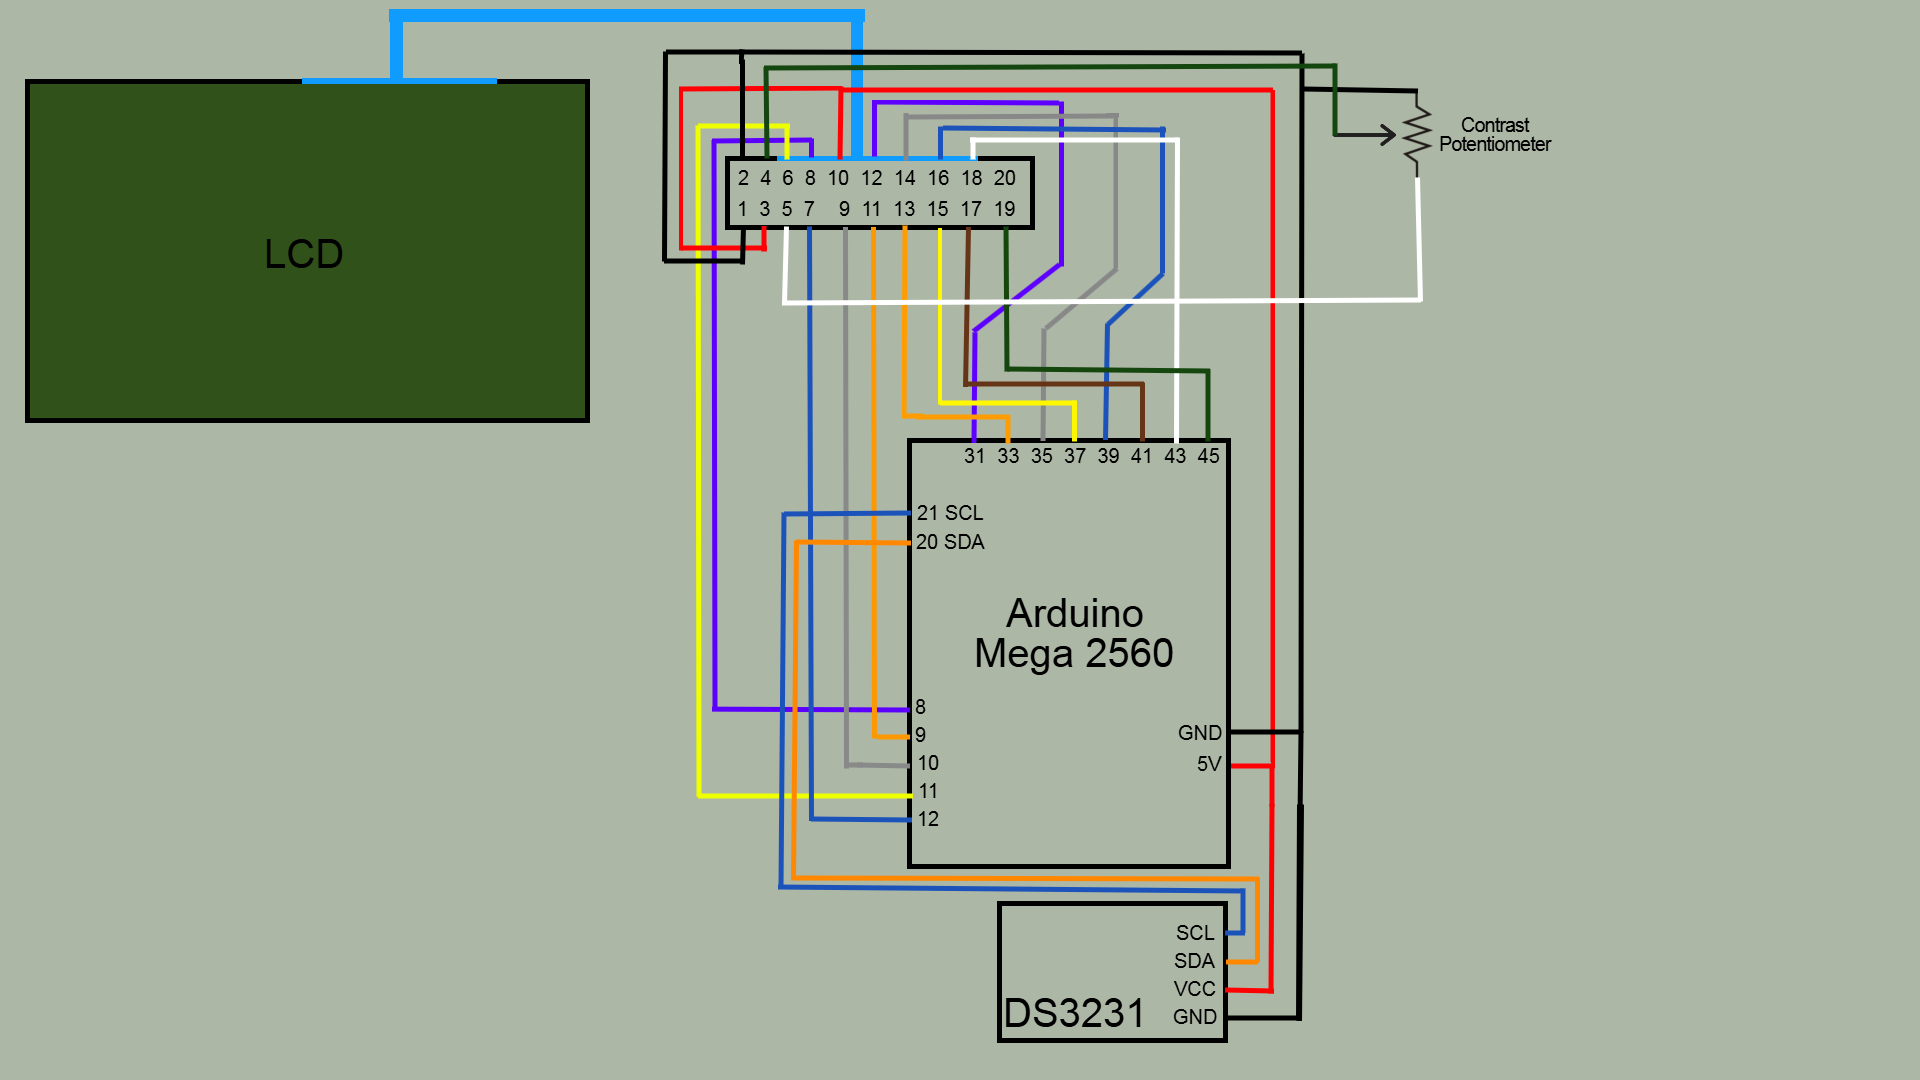
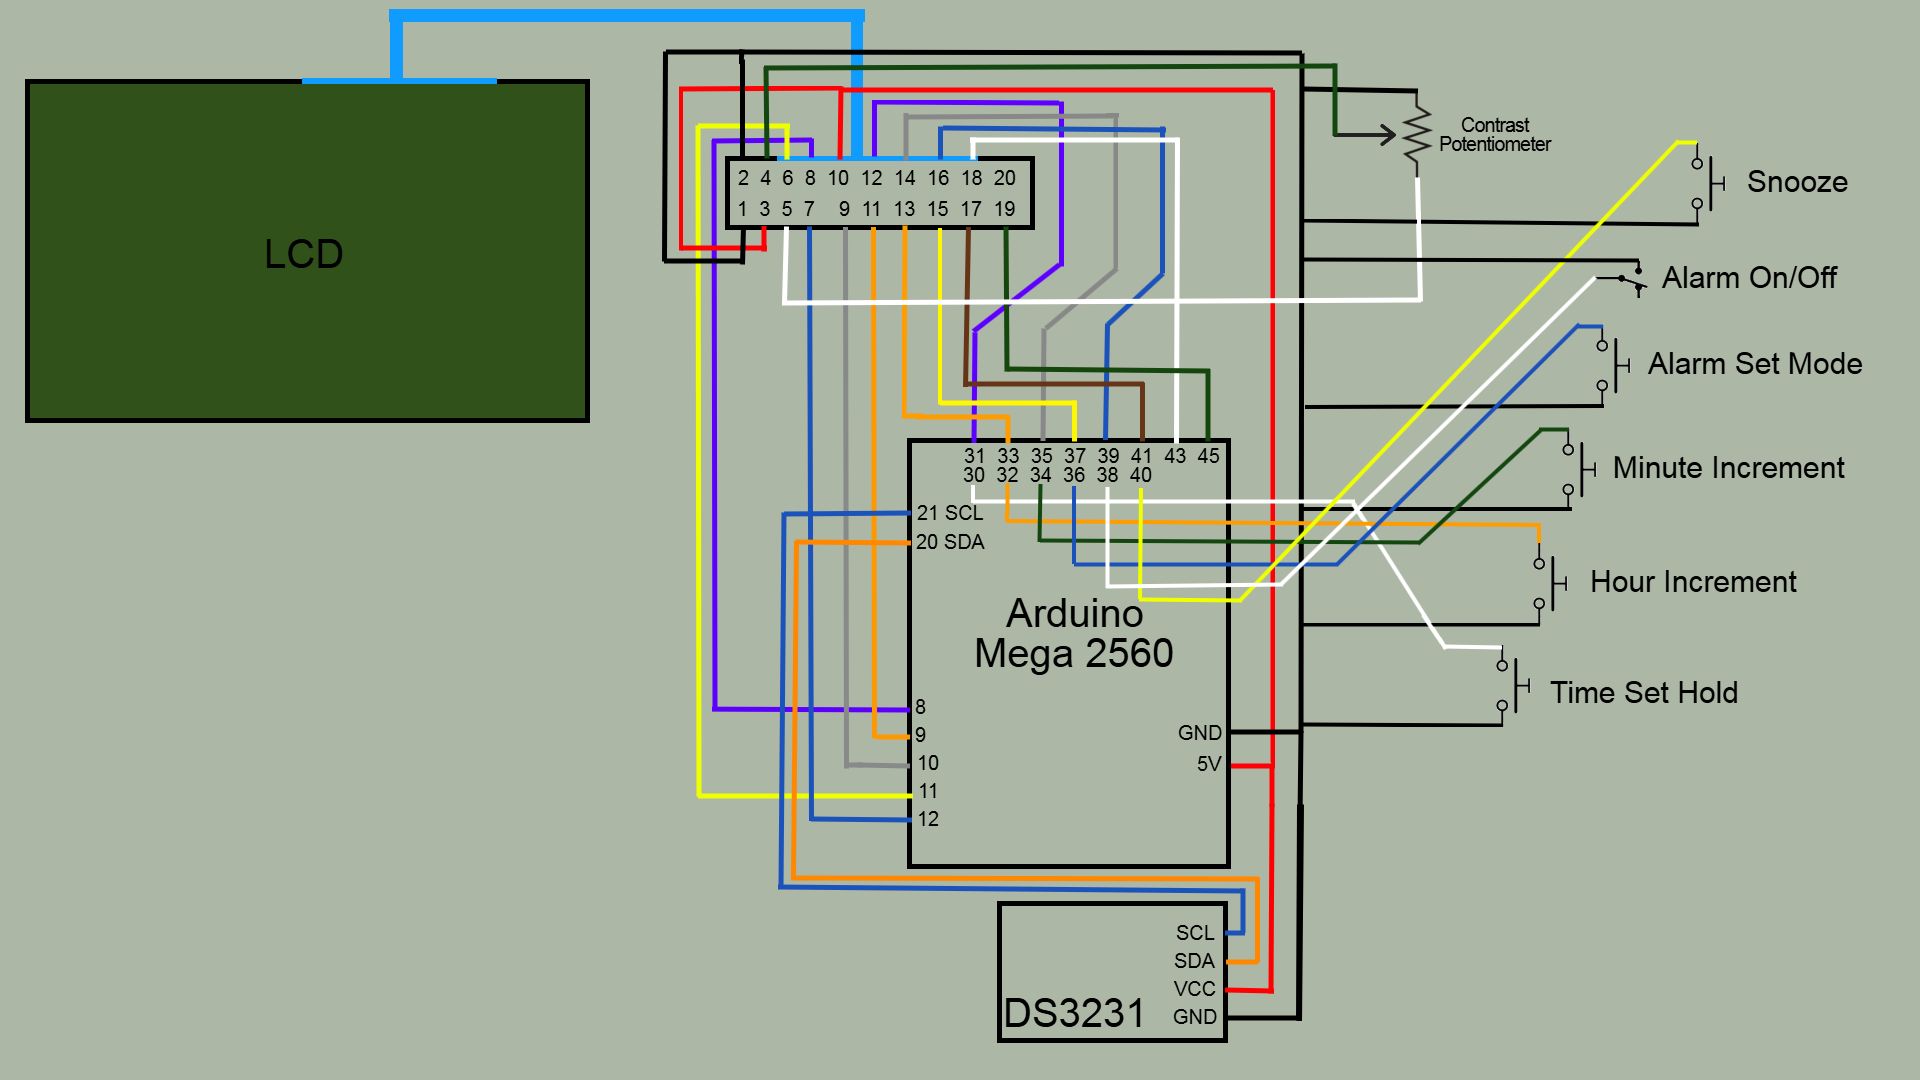
Physical Clock Interface added. Alarm functionality.

diff --git a/RA6963-N1/interface.cpp b/RA6963-N1/interface.cpp
@@ -1,0 +1,122 @@
+#include <Arduino.h>
+#include "interface.h"
+
+#define TIME_SET_PIN      30
+#define HOUR_PIN          32
+#define MINUTE_PIN        34
+#define ALARM_SET_PIN     36
+#define ALARM_ENABLE_PIN  38
+#define SNOOZE_PIN        40
+
+void interface_setup()
+{
+  pinMode(TIME_SET_PIN, INPUT_PULLUP);
+  pinMode(HOUR_PIN, INPUT_PULLUP);
+  pinMode(MINUTE_PIN, INPUT_PULLUP);
+  pinMode(ALARM_SET_PIN, INPUT_PULLUP);
+  pinMode(ALARM_ENABLE_PIN, INPUT_PULLUP);
+  pinMode(SNOOZE_PIN, INPUT_PULLUP);
+}
+
+static bool pressed(uint8_t pin)
+{
+  return digitalRead(pin) == LOW;
+}
+
+static bool justPressed(uint8_t pin)
+{
+  static bool lastState[54];
+
+  bool now = pressed(pin);
+  bool result = now && !lastState[pin];
+
+  lastState[pin] = now;
+  return result;
+}
+
+static bool repeatPressed(uint8_t pin)
+{
+  static bool lastPressed[54] = {false};
+  static uint32_t pressStart[54] = {0};
+  static uint32_t lastRepeat[54] = {0};
+
+  const uint32_t HOLD_DELAY = 1000;      // wait 1 sec before rapid repeat
+  const uint32_t REPEAT_INTERVAL = 100;  // then repeat every 100ms
+
+  bool nowPressed = pressed(pin);
+  uint32_t now = millis();
+
+  // just pressed: fire once immediately
+  if (nowPressed && !lastPressed[pin]) {
+    pressStart[pin] = now;
+    lastRepeat[pin] = now;
+    lastPressed[pin] = true;
+    return true;
+  }
+
+  // held: after 1 sec, repeat
+  if (nowPressed && lastPressed[pin]) {
+    if (now - pressStart[pin] >= HOLD_DELAY &&
+        now - lastRepeat[pin] >= REPEAT_INTERVAL) {
+      lastRepeat[pin] = now;
+      return true;
+    }
+  }
+
+  // released
+  if (!nowPressed) {
+    lastPressed[pin] = false;
+  }
+
+  return false;
+}
+
+bool handleButtons(
+      bool& alarmEnabled,
+      bool& alarmActive,
+      bool& setTimeActive,
+      bool& setAlarmTimeActive,
+      bool& snoozeActive,
+      Time& alarmTime,
+      Time& editTime
+    )
+{
+  bool displayNeedsUpdate = false;
+
+  bool timeSetHeld = pressed(TIME_SET_PIN);
+  bool alarmSetHeld = pressed(ALARM_SET_PIN);
+  bool alarmToggled = pressed(ALARM_ENABLE_PIN);
+
+  setTimeActive = timeSetHeld;
+  setAlarmTimeActive = alarmSetHeld;
+  alarmEnabled = alarmToggled;
+
+  if (timeSetHeld) {
+    if (repeatPressed(HOUR_PIN)) {
+      incrementHour(editTime);
+      displayNeedsUpdate = true;
+    }
+
+    if (repeatPressed(MINUTE_PIN)) {
+      incrementMinute(editTime);
+      displayNeedsUpdate = true;
+    }
+  }
+  else if (alarmSetHeld) {
+    if (repeatPressed(HOUR_PIN)) {
+      incrementHour(alarmTime);
+      displayNeedsUpdate = true;
+    }
+
+    if (repeatPressed(MINUTE_PIN)) {
+      incrementMinute(alarmTime);
+      displayNeedsUpdate = true;
+    }
+  }
+
+  if (justPressed(SNOOZE_PIN) && alarmActive) {
+    snoozeActive = true;
+  }
+
+  return displayNeedsUpdate;
+}

diff --git a/RA6963-N1/display.cpp b/RA6963-N1/display.cpp
@@ -26,6 +26,7 @@
 #define MERIDIEM_HEIGHT    14
 
 #include "bitmaps/alarm_indicator.h"
+#include "bitmaps/alarm_indicator_off.h"
 #define ALARM_INDICATOR_X         95
 #define ALARM_INDICATOR_Y         35
 #define ALARM_INDICATOR_WIDTH     40
@@ -58,22 +59,32 @@ void setModeEvasion()
 {
   screenBuffer.overlayBitmap(evasion_banner, BANNER_X, BANNER_Y, BANNER_WIDTH, BANNER_HEIGHT);
   screenBuffer.overlayBitmap(evasion_kanji, KANJI_X, KANJI_Y, KANJI_WIDTH, KANJI_HEIGHT);
+  displayBitmap(screenBuffer.data());
 }
 
 void setModeAlert() 
 {
   screenBuffer.overlayBitmap(alert_banner, BANNER_X, BANNER_Y, BANNER_WIDTH, BANNER_HEIGHT);
   screenBuffer.overlayBitmap(alert_kanji, KANJI_X, KANJI_Y, KANJI_WIDTH, KANJI_HEIGHT);
+  displayBitmap(screenBuffer.data());
+}
+
+void showAlarmIndicator()
+{
+  screenBuffer.overlayBitmap(alarm_indicator, ALARM_INDICATOR_X, ALARM_INDICATOR_Y, ALARM_INDICATOR_WIDTH, ALARM_INDICATOR_HEIGHT);
+  displayBitmap(screenBuffer.data()); 
+}
+
+void hideAlarmIndicator()
+{
+  screenBuffer.overlayBitmap(alarm_indicator_off, ALARM_INDICATOR_X, ALARM_INDICATOR_Y, ALARM_INDICATOR_WIDTH, ALARM_INDICATOR_HEIGHT);
+  displayBitmap(screenBuffer.data()); 
 }
 
 void setDefaultDisplay()
 {
   screenBuffer.setBuffer(background);
   setModeEvasion();
-  displayBitmap(screenBuffer.data());
-
-  // setModeAlert();
-  // screenBuffer.overlayBitmap(alarm_indicator, ALARM_INDICATOR_X, ALARM_INDICATOR_Y, ALARM_INDICATOR_WIDTH, ALARM_INDICATOR_HEIGHT);
 }
 
 // Modify the buffer and display it given a Time object

diff --git a/RA6963-N1/screen_buffer.cpp b/RA6963-N1/screen_buffer.cpp
@@ -1,6 +1,7 @@
 #include <Arduino.h>
 #include <avr/pgmspace.h>
 #include "screen_buffer.h"
+#define DEBUG_BUFFER false
 
 uint8_t* ScreenBuffer::data()
 {
@@ -31,7 +32,7 @@ bool ScreenBuffer::canDrawBitmap(uint8_t x, uint8_t y, uint8_t widthBits, uint8_
 void ScreenBuffer::setPixel(uint8_t x, uint8_t y, bool pixelOn)
 {
   if (x >= SCREEN_WIDTH || y >= SCREEN_HEIGHT) {
-    Serial.println("Error in setPixel(): Bit not within bounds of screen.");
+    if (DEBUG_BUFFER) Serial.println("Error in setPixel(): Bit not within bounds of screen.");
     return;
   }
 
@@ -49,12 +50,12 @@ void ScreenBuffer::setPixel(uint8_t x, uint8_t y, bool pixelOn)
 void ScreenBuffer::overlayBitmap(const uint8_t* bitmap, uint8_t x, uint8_t y, uint8_t widthBits, uint8_t heightBits) 
 {
   if (!canDrawBitmap(x, y, widthBits, heightBits)) {
-    Serial.println("Error in overlayBitmap(): Bitmap dimensions not within bounds of screen.");
+    if (DEBUG_BUFFER) Serial.println("Error in overlayBitmap(): Bitmap dimensions not within bounds of screen.");
     return;
   }
 
   if (widthBits % 8 != 0) {
-    Serial.println("Error in overlayBitmap(): Bitmap width not divisible into byte size chunks.");
+    if (DEBUG_BUFFER) Serial.println("Error in overlayBitmap(): Bitmap width not divisible into byte size chunks.");
     return;
   }
 

diff --git a/RA6963-N1/clock.cpp b/RA6963-N1/clock.cpp
@@ -20,9 +20,9 @@ void rtc_setup()
 // Use Markiplier (multiplier) to set fake time rate
 //==============================================================================
 #define DEBUG               false
-#define MARKIPLIER          60
-#define DEBUG_START_HOUR    23
-#define DEBUG_START_MINUTE  50
+#define MARKIPLIER          30
+#define DEBUG_START_HOUR    0
+#define DEBUG_START_MINUTE  0
 #define DEBUG_START_SECOND  0
 
 static DateTime getMarkipliedTime() {
@@ -73,6 +73,31 @@ void printTime()
   time += (now.isPM() ? "PM" : "AM");
 
   Serial.println(time);
+}
+
+//==============================================================================
+// Time Struct Interface
+//==============================================================================
+void incrementHour(Time& t)
+{
+  if (t.hour == 11) {
+    t.hour = 12;
+    t.isPM = !t.isPM;   // 11 AM -> 12 PM, 11 PM -> 12 AM
+  } else if (t.hour == 12) {
+    t.hour = 1;
+  } else {
+    t.hour++;
+  }
+}
+
+void incrementMinute(Time& t)
+{
+  t.minute++;
+
+  if (t.minute > 59) {
+    t.minute = 0;
+    incrementHour(t);
+  }
 }
 
 

diff --git a/RA6963-N1/bitmaps/alarm_indicator_off.h b/RA6963-N1/bitmaps/alarm_indicator_off.h
@@ -1,0 +1,17 @@
+#pragma once
+#include <stdint.h>
+#include <avr/pgmspace.h>
+
+const uint8_t alarm_indicator_off[55] PROGMEM = {
+  0b11111111, 0b11111111, 0b11111111, 0b11111111, 0b11111111,
+  0b11111111, 0b11111111, 0b11111111, 0b11111111, 0b11111111,
+  0b11111111, 0b11111111, 0b11111111, 0b11111111, 0b11111111,
+  0b11111111, 0b11111111, 0b11111111, 0b11111111, 0b11111111,
+  0b11111111, 0b11111111, 0b11111111, 0b11111111, 0b11111111,
+  0b11111111, 0b11111111, 0b11111111, 0b11111111, 0b11111111,
+  0b11111111, 0b11111111, 0b11111111, 0b11111111, 0b11111111,
+  0b11111111, 0b11111111, 0b11111111, 0b11111111, 0b11111111,
+  0b11111111, 0b11111111, 0b11111111, 0b11111111, 0b11111111,
+  0b11111111, 0b11111111, 0b11111111, 0b11111111, 0b11111111,
+  0b11111111, 0b11111111, 0b11111111, 0b11111111, 0b11111111,
+};

diff --git a/RA6963-N1/interface.h b/RA6963-N1/interface.h
@@ -1,0 +1,13 @@
+#pragma once
+#include "clock.h"
+
+void interface_setup();
+bool handleButtons(
+  bool& alarmEnabled,
+  bool& alarmActive,
+  bool& setTimeActive,
+  bool& setAlarmTimeActive,
+  bool& snoozeActive,
+  Time& alarmTime,
+  Time& editTime
+);

diff --git a/RA6963-N1/display.h b/RA6963-N1/display.h
@@ -2,4 +2,8 @@
 #include "clock.h"
 
 void setDefaultDisplay();
+void showAlarmIndicator();
+void hideAlarmIndicator();
+void setModeEvasion();
+void setModeAlert();
 void drawTime(const Time& now);

diff --git a/RA6963-N1/clock.h b/RA6963-N1/clock.h
@@ -15,3 +15,5 @@ void rtc_setup();
 void setTime(const Time &now);
 Time getTime();
 void printTime();
+void incrementHour(Time& t);
+void incrementMinute(Time& t);
